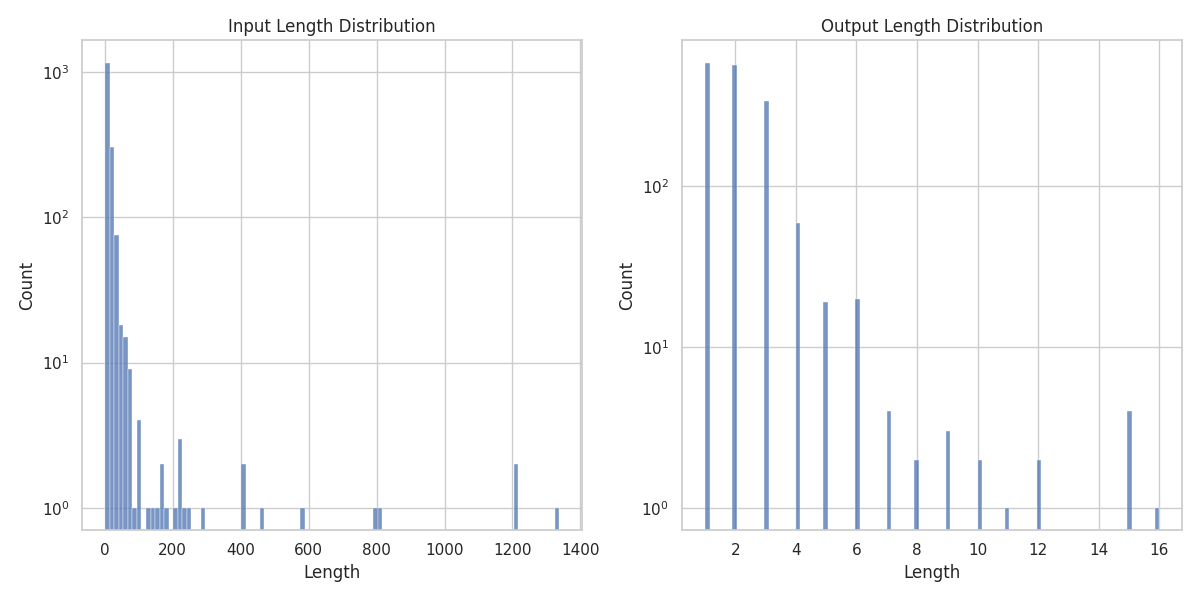
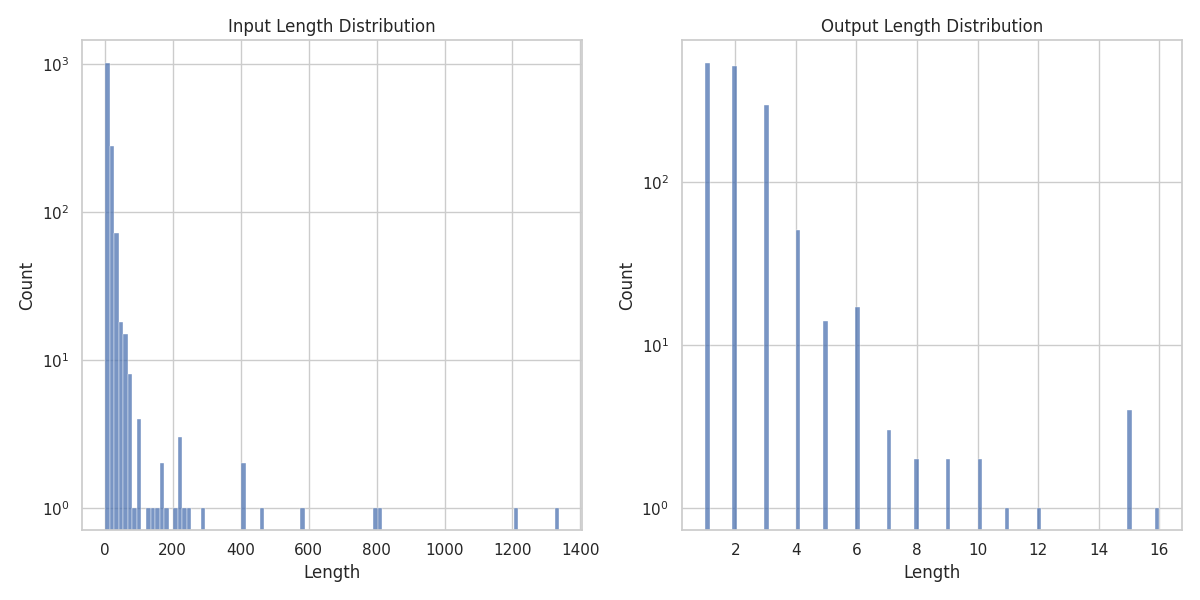
Refactor preprocessing script to remove consecutive duplicates and duplicate inputs

diff --git a/preprocessing/preprocessing.py b/preprocessing/preprocessing.py
@@ -82,30 +82,59 @@ for text in tqdm(input_text_list):
         if len(input_text) == 0 or len(output_text) == 0:
             continue
         dataset.append({"input": input_text, "output": output_text})
-
+print("##########")
 print(f"Total {len(dataset)} lines after preprocessing")
 
 # Remove consecutive lines with the same output of more than 3
 prev_output = ""
 prev_count = 0
-dataset_without_duplicates = []
+dataset_without_consecutives = []
 for data in dataset:
     if data["output"] == prev_output:
         prev_count += 1
     else:
         prev_count = 0
     if prev_count < 3:
-        dataset_without_duplicates.append(data)
+        dataset_without_consecutives.append(data)
     prev_output = data["output"]
-dataset = dataset_without_duplicates
+dataset = dataset_without_consecutives
 
+print("##########")
+print(f"Total {len(dataset)} lines after consecutive removal")
+
+# Remove duplicate inputs if the output appears many times
+emoji_counter = Counter()
+for text in dataset:
+    emoji_counter.update(text['output'])
+
+unique_dataset = []
+seen = set()
+for data in dataset:
+    if (data['input'], data['output']) not in seen:
+        unique_dataset.append(data)
+        seen.add((data['input'], data['output']))
+    else:
+        if sum(emoji_counter[c] for c in data['output']) < 3 * len(data['output']):
+            unique_dataset.append(data)
+dataset = unique_dataset
+
+print("##########")
 print(f"Total {len(dataset)} lines after duplicate removal")
+
+print("##########")
 print(
     f"Samples with longer than 128 input chars: {len([d for d in dataset if len(d['input']) > 128])}")
 print(
-    f"Samples with longer than 6 output chars: {len([d for d in dataset if len(d['output']) > 6])}")
+    f"Samples with >6 output chars: {len([d for d in dataset if len(d['output']) > 6])}")
+print("##########")
+
 with jsonlines.open("emoji_dataset/train.jsonl", "w") as writer:
     writer.write_all(dataset)
+
+emoji_counter = Counter()
+for text in dataset:
+    emoji_counter.update(text['output'])
+print(emoji_counter)
 
 
 def split_jsonl(input_file, train_file, val_file, split_ratio=0.8):
@@ -130,15 +159,6 @@ def split_jsonl(input_file, train_file, val_file, split_ratio=0.8):
         for item in val_data:
             writer_val.write(item)
 
-
-emoji_counter = Counter()
-for text in dataset:
-    emoji_counter.update(text['output'])
-print(emoji_counter)
-
-# for k, v in emoji_counter.items():
-#     if v == 2:
-#         open("emoji_dataset/reject_list.txt", "a").write(k + "\n")
 
 print("Plotting...")
 input_lengths = [len(d['input']) for d in dataset]
